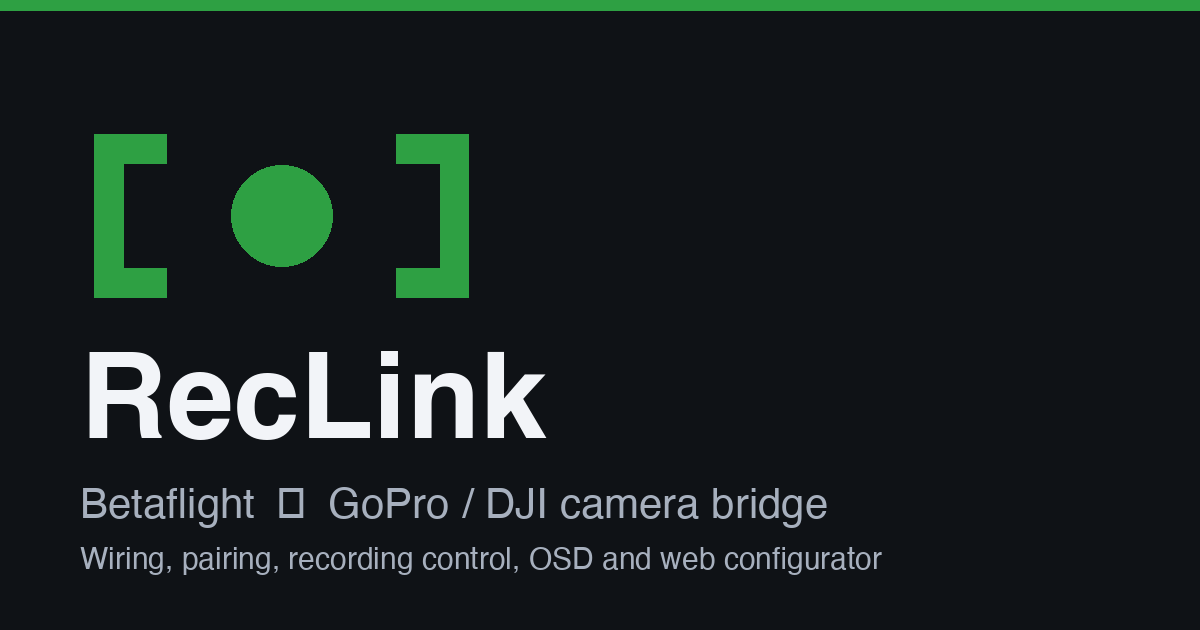
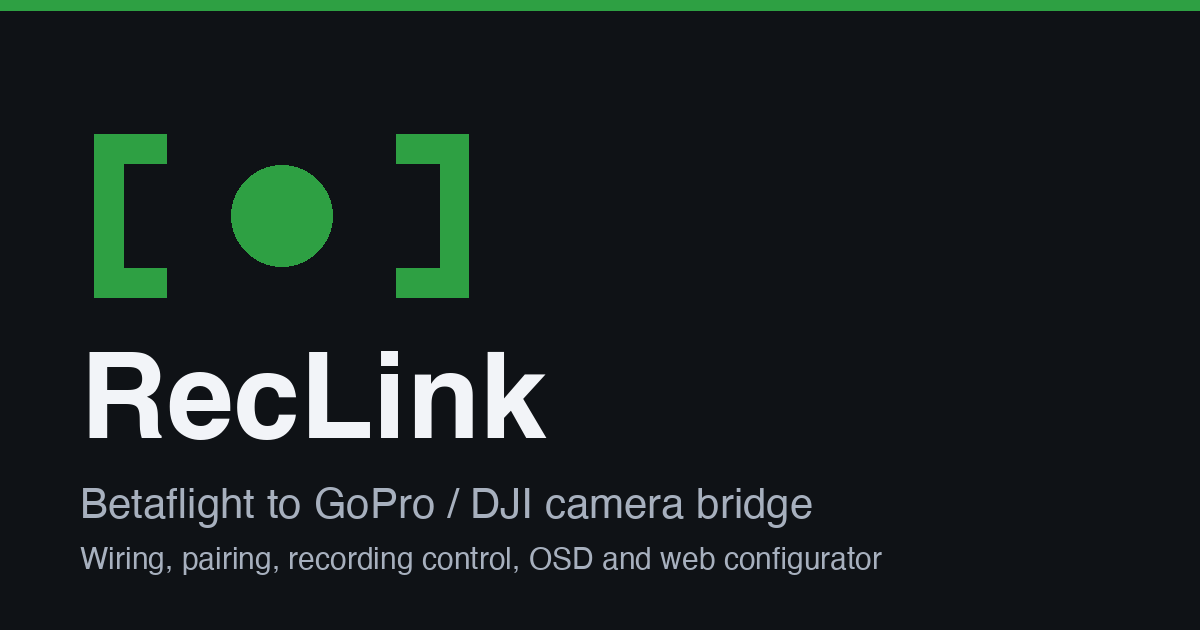
SEO: fix share image subtitle glyph

Changed region(s): [[0.2158, 0.754, 0.7092, 0.8444]]

diff --git a/guide-src/build_web.py b/guide-src/build_web.py
@@ -340,7 +340,7 @@ def make_og():
     mid = ImageFont.truetype(fp, 42, index=0)
     small = ImageFont.truetype(fp, 30, index=0)
     d.text((80, 345), "RecLink", font=big, fill="#f2f4f8")
-    d.text((80, 485), "Betaflight  \u2194  GoPro / DJI camera bridge", font=mid, fill="#a7b0be")
+    d.text((80, 485), "Betaflight to GoPro / DJI camera bridge", font=mid, fill="#a7b0be")
     d.text((80, 545), "Wiring, pairing, recording control, OSD and web configurator", font=small, fill="#a7b0be")
     im.save(out, optimize=True)
 
